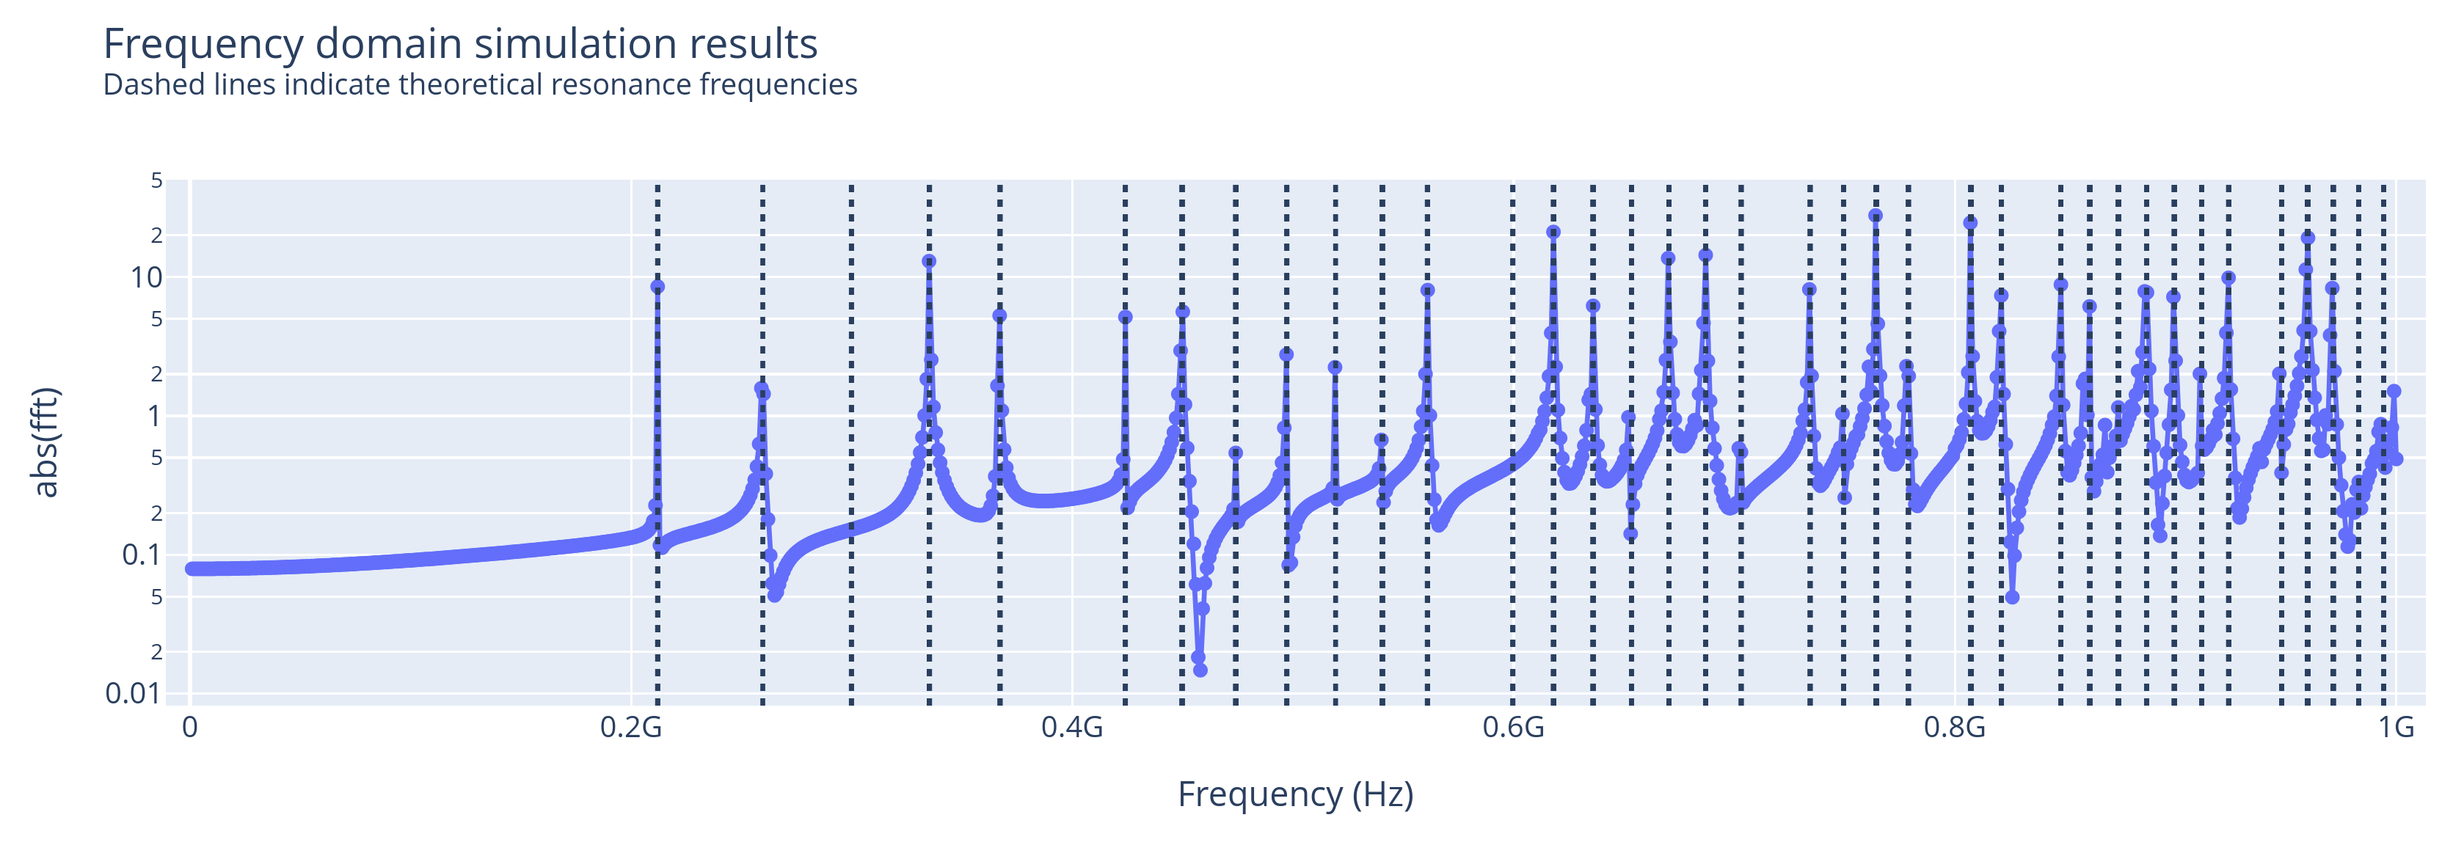
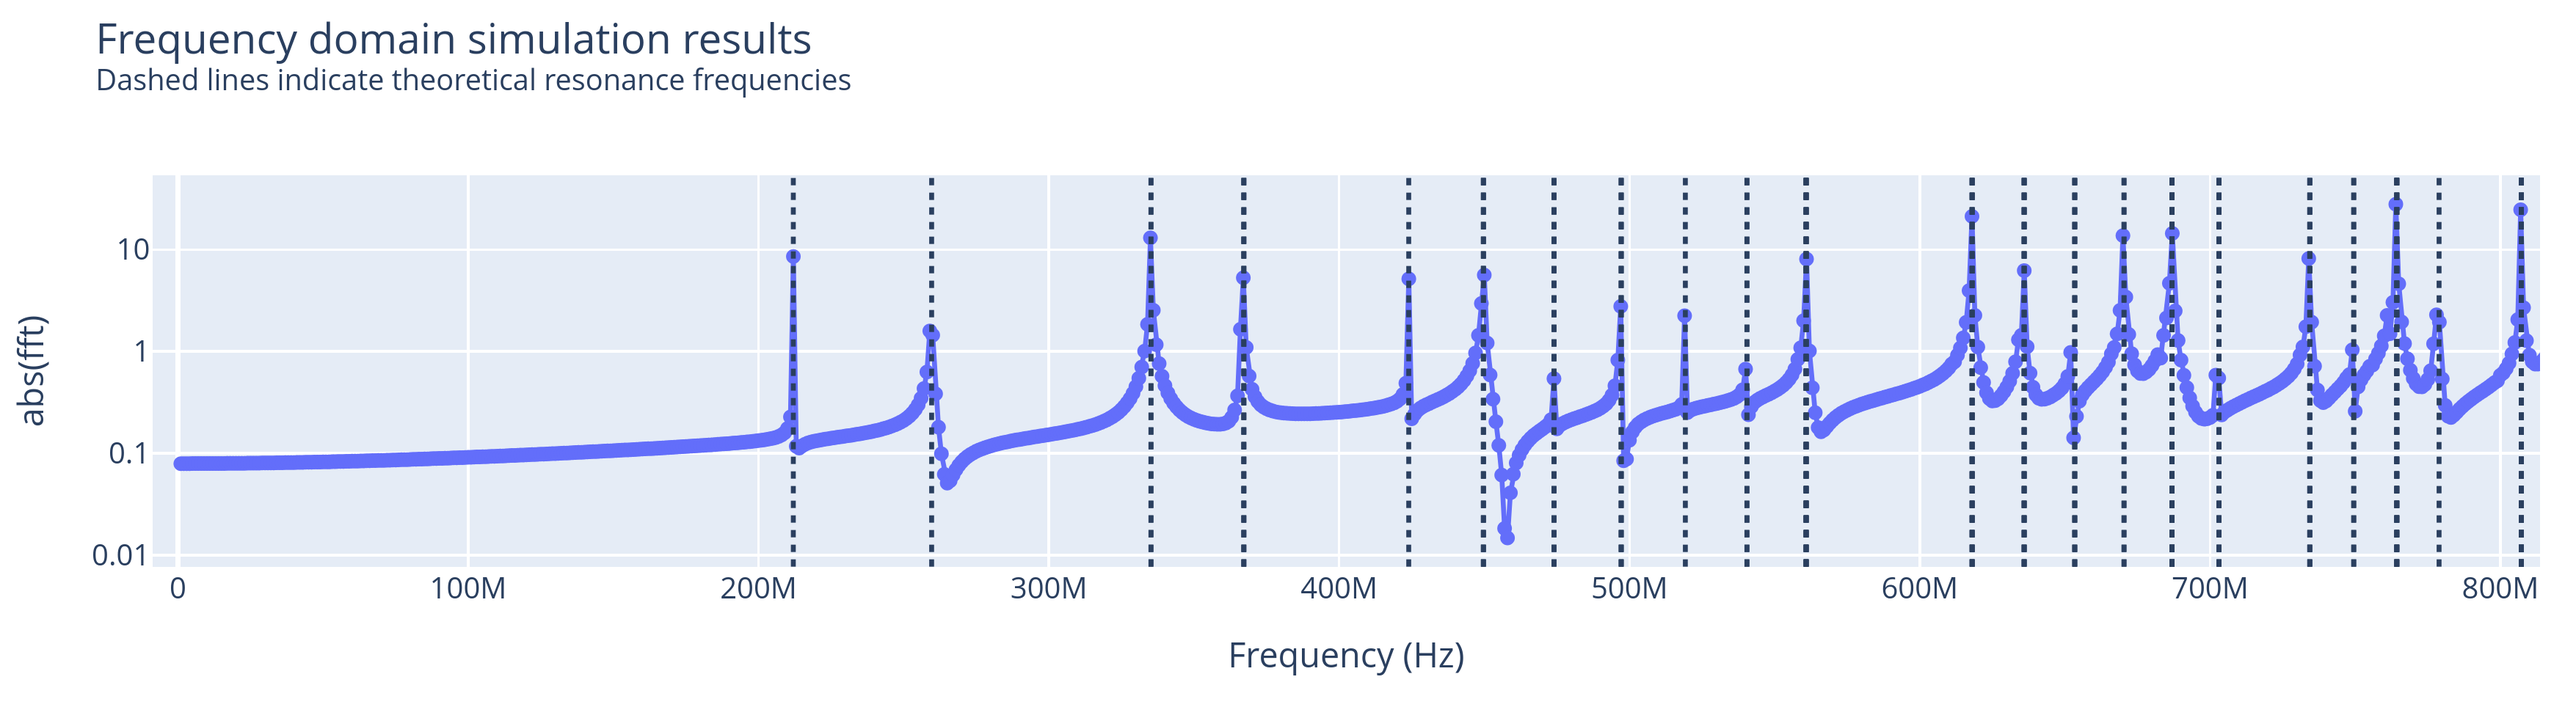
Fixed theoretical formula

diff --git a/python/Tutorials/rectangular_resonant_cavity/main.py b/python/Tutorials/rectangular_resonant_cavity/main.py
@@ -16,10 +16,24 @@ def theoretical_resonance_frequencies(
 		# Size of the cavity in meters. E.g. `numpy.array((1,2,3))`.
 	mode_number:numpy.ndarray,
 		# Mode number. E.g. `numpy.array((1,0,0))` is the fundamental mode in `x` direction.
+	E_field_direction:str,
+		# Direction of the electric field, either `'x'`, `'y'` or `'z'`.
 ):
 	if sum(mode_number) in {0,1}:
 		# This means there is no excitation of the EM field at all, see the expressions of the fields [here](https://www.brainkart.com/article/Rectangular-and-circular-cavity-resonators_12513/).
 		return float('NaN')
+	match E_field_direction:
+		case 'x':
+			if mode_number[1]==0 or mode_number[2]==0:
+				return float('NaN')
+		case 'y':
+			if mode_number[0]==0 or mode_number[2]==0:
+				return float('NaN')
+		case 'z':
+			if mode_number[1]==0 or mode_number[0]==0:
+				return float('NaN')
+		case _:
+			raise ValueError(f'Wrong `E_field_direction`. ')
 	return c/2*(sum((mode_number/cavity_size_meters)**2))**.5
 
 def configure_rectangular_cavity_simulation(
@@ -126,10 +140,10 @@ def analyze_results(path_to_folder_where_to_write_output:Path, cavity_size:tuple
 		)
 	)
 	# Draw theoretical resonance frequencies:
-	for nx in range(11):
-		for ny in range(11):
-			for nz in range(11):
-				resonance_frequency = theoretical_resonance_frequencies(numpy.array(cavity_size),numpy.array((nx,ny,nz)))
+	for nx in range(5):
+		for ny in range(5):
+			for nz in range(5):
+				resonance_frequency = theoretical_resonance_frequencies(numpy.array(cavity_size),numpy.array((nx,ny,nz)), E_field_direction='x')
 				if resonance_frequency > f_max or numpy.isnan(resonance_frequency):
 					continue
 				fig.add_vline(
@@ -156,7 +170,7 @@ def main():
 		simulation = simulation,
 		path_to_folder_where_to_write_output = PATH_TO_FOLDER_WHERE_TO_WRITE_SIMULATION_OUTPUT,
 	)
-	simulation = analyze_results(
+	analyze_results(
 		path_to_folder_where_to_write_output = PATH_TO_FOLDER_WHERE_TO_WRITE_SIMULATION_OUTPUT,
 		cavity_size = CAVITY_SIZE,
 		f_max = F_MAX,
